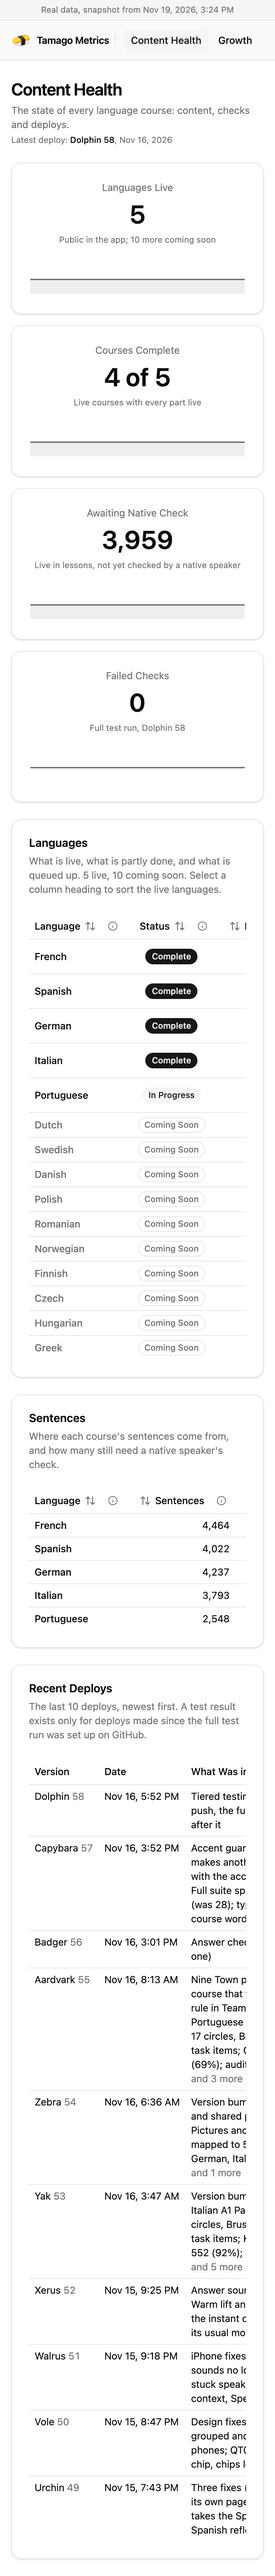
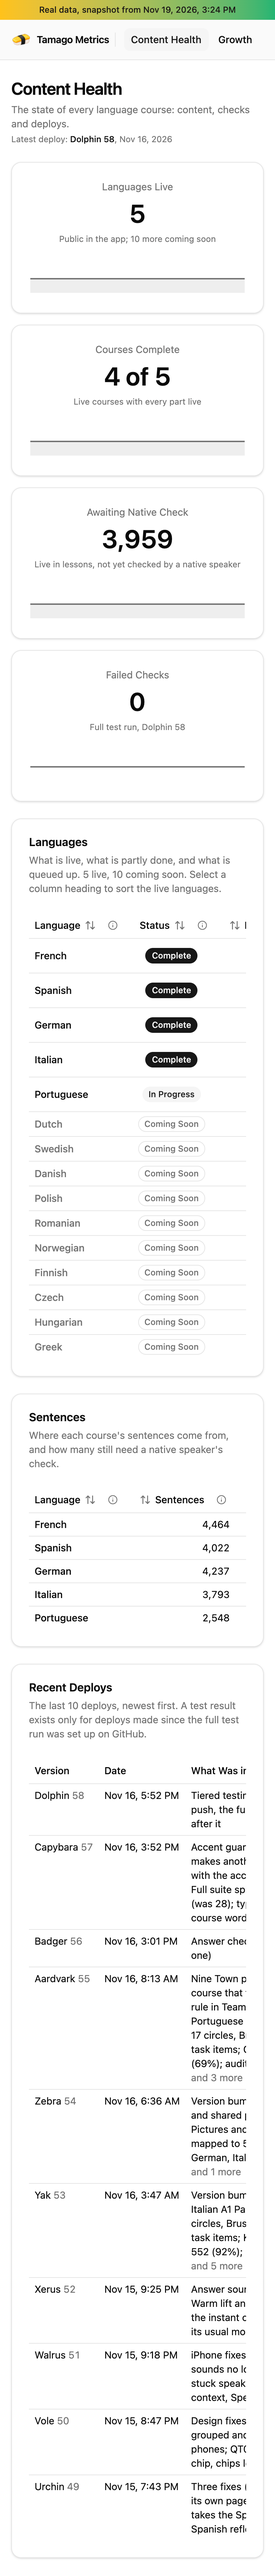
Snapshot strip: yellow-to-green gradient in the Tamago app's colours

diff --git a/src/index.css b/src/index.css
@@ -37,6 +37,9 @@
     --color-chart-5: var(--chart-5);
     --color-chart-6: var(--chart-6);
     --color-chart-neutral: var(--chart-neutral);
+    --color-tamago-yellow: var(--tamago-yellow);
+    --color-tamago-green: var(--tamago-green);
+    --color-tamago-ink: var(--tamago-ink);
     --color-sidebar: var(--sidebar);
     --color-sidebar-foreground: var(--sidebar-foreground);
     --color-sidebar-primary: var(--sidebar-primary);
@@ -75,6 +78,11 @@
     --chart-5: #e87ba4;
     --chart-6: #008300;
     /* Neutral, for sparklines and other single marks that carry no identity. */
+    /* The Tamago app's own colours (its src/index.css): --accent yellow, the lighter logo green, --accent-ink.
+       Used for the snapshot strip. The same in light and dark, as in the app. */
+    --tamago-yellow: #ffc21a;
+    --tamago-green: #22b573;
+    --tamago-ink: #1c1a17;
     --chart-neutral: oklch(0.556 0 0);
     --sidebar: oklch(0.985 0 0);
     --sidebar-foreground: oklch(0.145 0 0);

diff --git a/src/layout/AppShell.tsx b/src/layout/AppShell.tsx
@@ -45,7 +45,7 @@ export function AppShell({
         <div
           role="note"
           data-banner="real"
-          className="shrink-0 border-b bg-muted px-4 py-1.5 text-center text-xs text-muted-foreground"
+          className="shrink-0 bg-linear-to-r from-tamago-yellow to-tamago-green px-4 py-1.5 text-center text-xs font-medium text-tamago-ink"
         >
           <p>
             Real data, snapshot from <time dateTime={snapshotTakenAt}>{snapshotLabel}</time>
